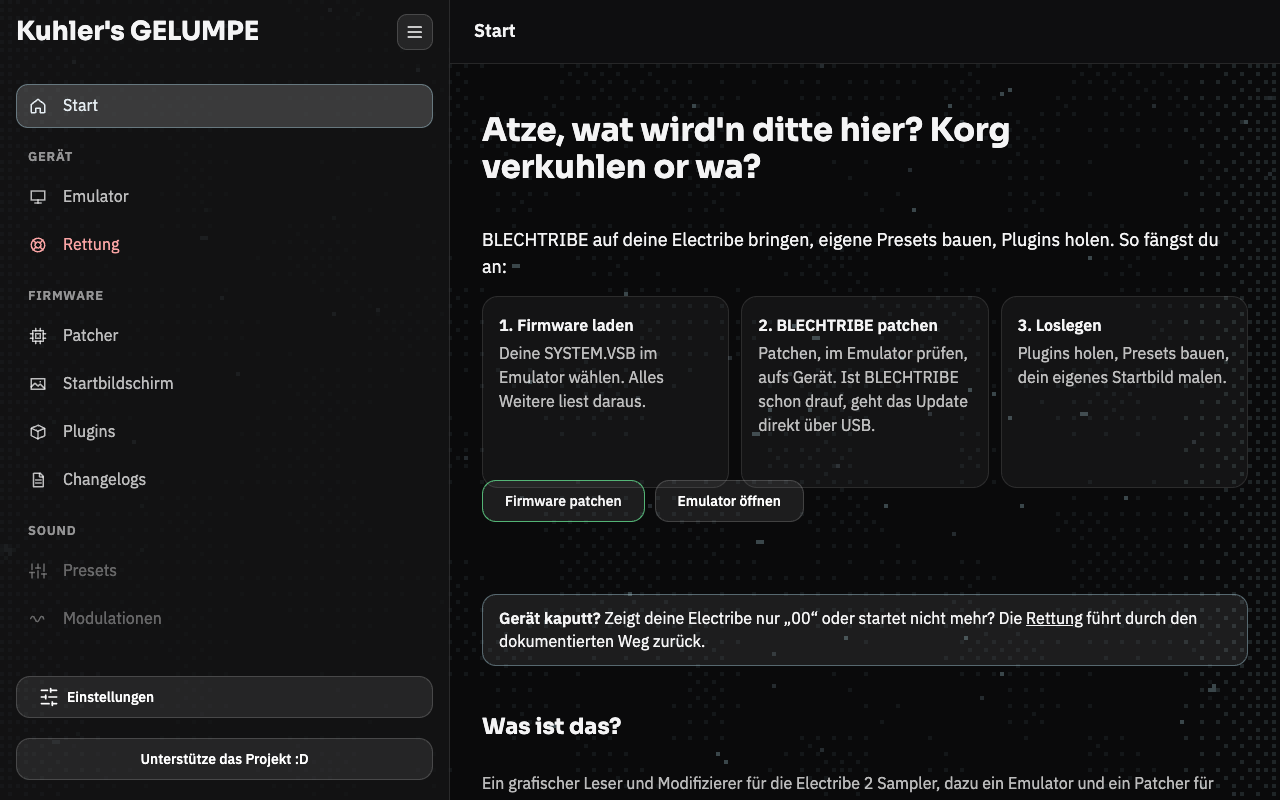
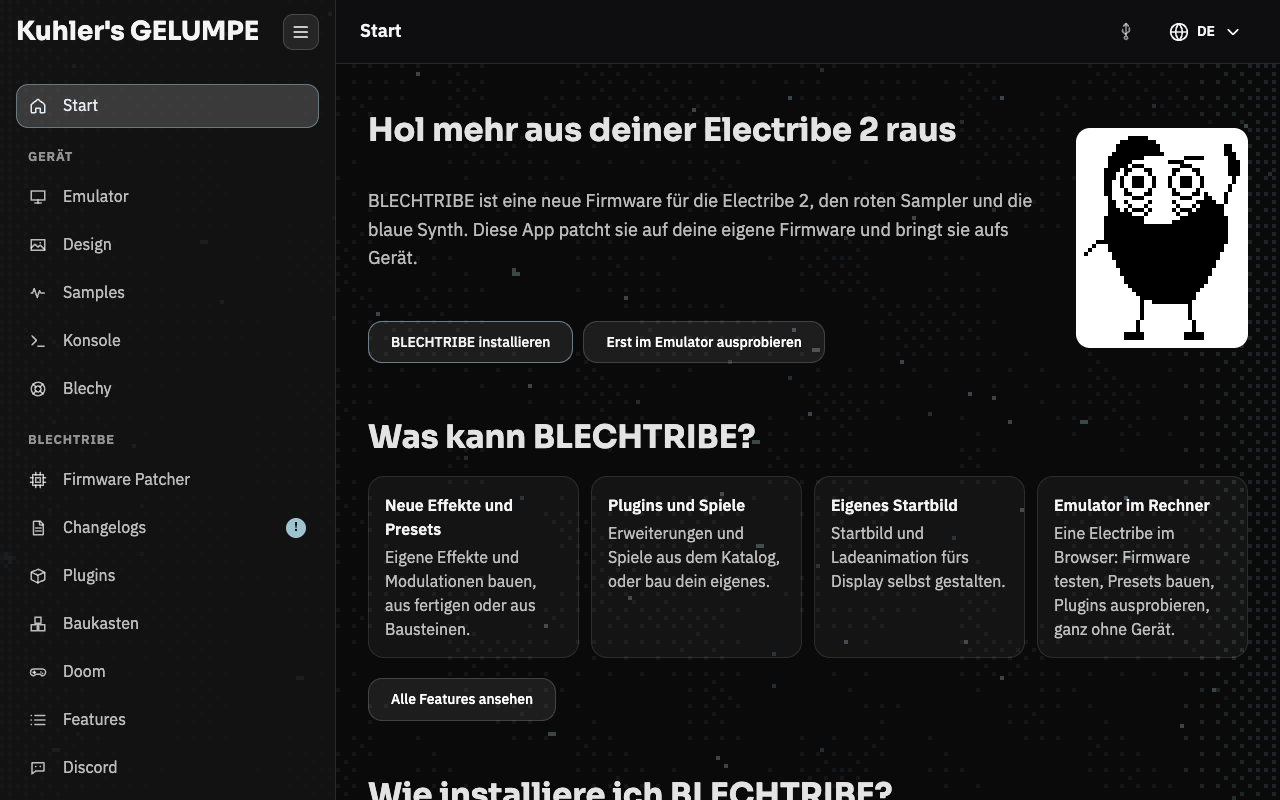
docs: start page logic and a new start preview

diff --git a/docs/development.md b/docs/development.md
@@ -340,6 +340,29 @@ Der eigene Assembler `tools/patch/arm.py` kennt bei Speicherzugriffen nur `ldr`,
 Browser-Regel: alles in `src/` außer `node.mjs` läuft im Browser. Keine `node:`-Importe
 außerhalb von `src/node.mjs`, `bin/`, `tools/` und `test/`.
 
+## Startseite
+
+`site/app/start.mjs` entscheidet, welche der zwei Ansichten aus `index.html` die Startseite zeigt. Beide stehen
+fest im HTML (mit `data-i18n`) und werden per `hidden` umgeschaltet:
+
+- **Willkommen** (`#cee-start-welcome`) für einen ersten Besuch: was BLECHTRIBE ist, Installieren und Ausprobieren,
+  die Installationsschritte, Hilfe. Hängt eine Electribe ohne BLECHTRIBE dran, sagt eine Zeile das (rot oder blau,
+  Korg-Version).
+- **Schaltzentrale** (`#cee-start-hub`), sobald BLECHTRIBE auf dem Gerät ist, eine Firmware im Emulator liegt oder
+  der Merker `cee.start.done` in `localStorage` steht. Der Patcher setzt ihn beim Speichern oder Senden. Beim ersten
+  Start ohne Merker zählen Spuren aus 1.4.x einmal mit (`cee.area` außer `start`, `cee.changelog.seen`,
+  `cee.scripts.v1`).
+
+Die Schaltzentrale liest vom Gerät nur: erst die BLECHTRIBE-Version (16 Bytes RAM an `0xC014FCF0`, Patch
+`blech-version`), dann rot oder blau (Flash). Jeder Lesevorgang wartet höchstens `READ_WAIT` (8 s), danach steht
+"Version unbekannt". Die Version wird mit `RELEASE_NOTES[0].version` verglichen: älter gibt den Update-Hinweis und
+die Update-Karte zuerst, gleich "Aktuell", neuer "Neuer als diese App". "Neu in dieser Version" sind die ersten drei
+Punkte aus `RELEASE_NOTES[0]`. Die Installationsschritte gibt es nur einmal im DOM: in der Schaltzentrale wandern sie
+in die eingeklappte "Installationsanleitung".
+
+Tests: `test/start-view.test.mjs` (Entscheidung, Versionen, Merker), `test/e2e/start.e2e.mjs` (beide Ansichten,
+Gerät mit älterer, gleicher und neuerer Version).
+
 ## Die App
 
 Eine Desktop-App (Tauri v2) um dieselbe Seite. Sie startet den Emulator-Dienst selbst
